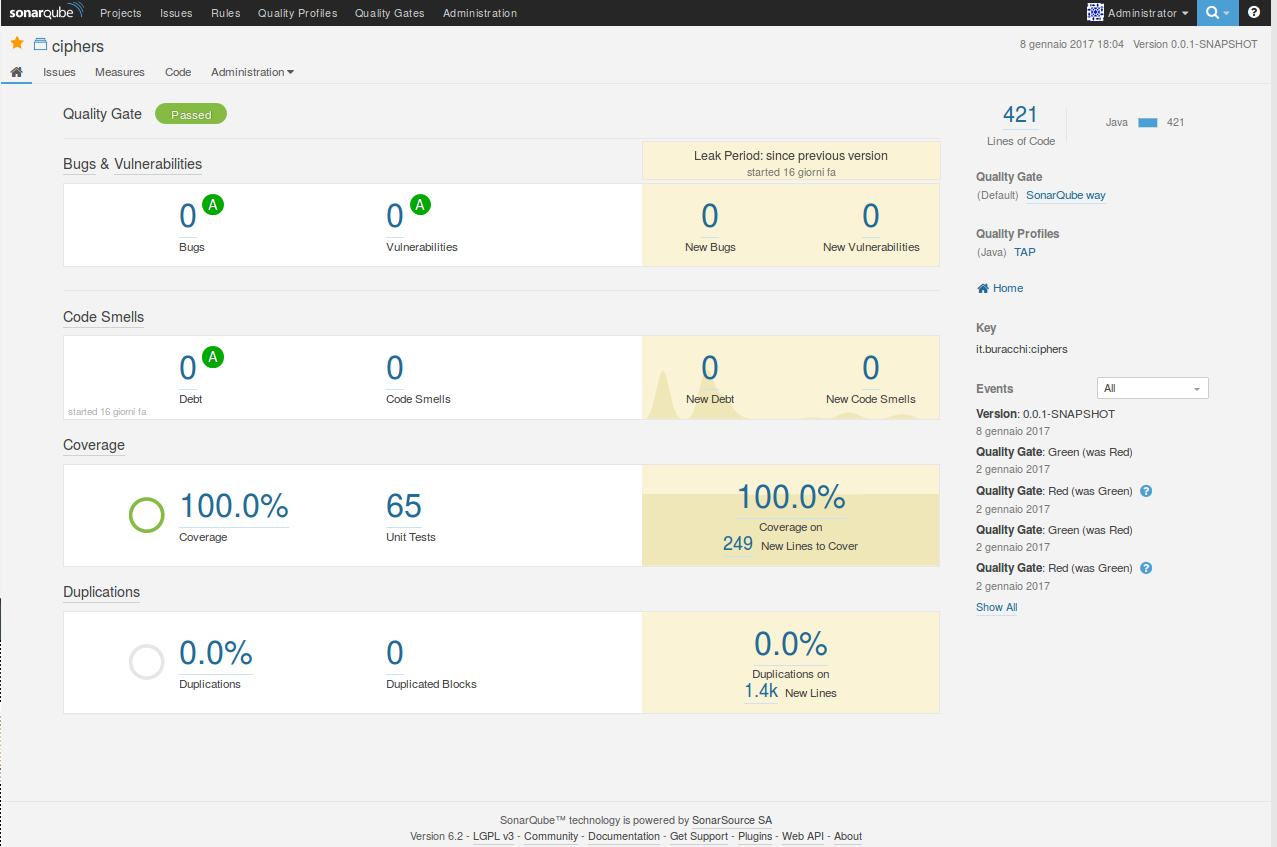
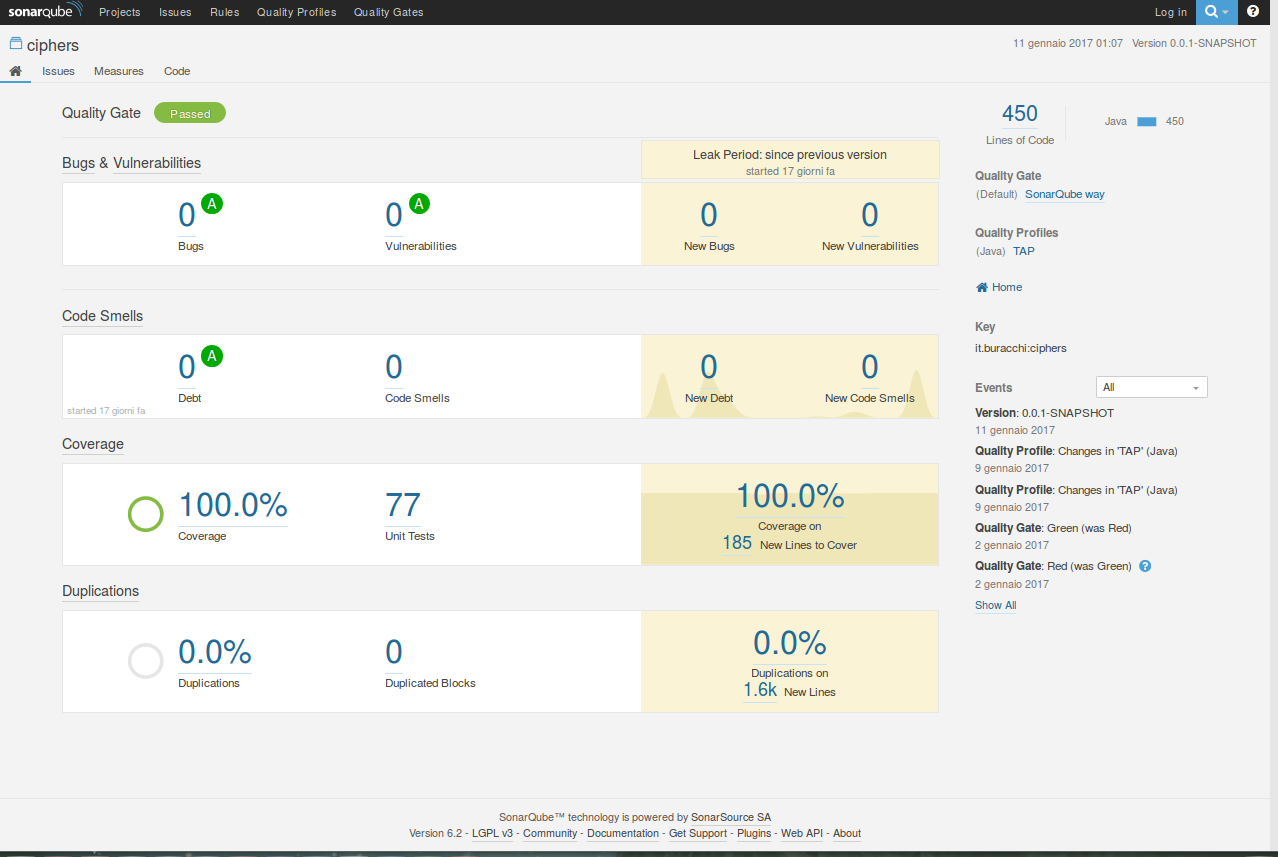
Correction after refactoring

diff --git a/Relazione/chapters/testing.tex b/Relazione/chapters/testing.tex
@@ -1,12 +1,12 @@
 \chapter{Testing}
 
 	\section{Unit testing}
-		Per tutti i test viene supposto che le stringhe da cifrare siano state processate dal parser e quindi che contengano solamente caratteri effettivamente cifrabili. Per eliminare tale dipendenza da classi concrete, nei vari unit-test un'istanza del parser viene simulata tramite \emph{mocking} e \emph{stubbing} dei metodi. Tale metodo verrà approfondito più avanti.
+		Per tutti i test viene supposto che le stringhe da cifrare siano state processate dal parser e quindi che contengano solamente caratteri effettivamente cifrabili. Per eliminare la dipendenza da classi concrete, nei vari unit-test, un'istanza del parser e, dove necessario, una del mapper viene simulata tramite \emph{mocking} e \emph{stubbing} dei metodi. Tale metodo verrà approfondito più avanti.
 		
 		Andiamo a vedere nel dettaglio i test con i quali sono state implementate le varie classi.
 		
 		\subsection{Shift cipher}
-			Lo \emph{shift cipher} è il cifrario più semplice. L'unica cosa che fa è spostare la lettere da cifrare di un certo numero di posizioni avanti nell'alfabeto. Tale numero di posizioni è la chiave del cifrario. Per decifrare il messaggio basterà semplicemente tornare indietro del numero di posizioni indicato dalla chiave. Se per esempio il messaggio è \emph{ciao} e la chiave è 3, il messaggio cifrato sarà \emph{fldr}.
+			Lo \emph{shift cipher} è il cifrario più semplice. L'unica cosa che fa è spostare la lettere da cifrare di un certo numero di posizioni avanti (o indietro) nell'alfabeto. Tale numero di posizioni è la chiave del cifrario. Per decifrare il messaggio basterà semplicemente tornare indietro (o avanti) del numero di posizioni indicato dalla chiave. Se per esempio il messaggio è \emph{ciao} e la chiave è 3, il messaggio cifrato sarà \emph{fldr}.
 			
 			Le uniche due funzionalità richieste a questo cifrario sono quelle di cifratura e decifratura. Tali funzionalità sono state testate nel caso di uno spostamento di zero posizioni (non ottenendo una cifratura), di una posizione, di ventisei posizioni, di ventisette posizioni e di un numero negativo di posizioni(-1). Come caso limite è stata testata anche la cifratura della stringa vuota (il numero di posizioni è ininfluente dato che la cifratura terminerà immediatamente).
 			
@@ -17,7 +17,7 @@
 			
 			I comportamenti da testare sono la cifratura, la decifratura e la giusta scelta del  parametro \emph{a} che deve essere coprimo con 26.
 			
-			Questo ultimo comportamento viene testato dando in input 2 come coefficiente \emph{a} e aspettandosi una IllegalArgumentException.
+			Questo ultimo comportamento viene testato dando in input 2 (non coprimo con 26) come coefficiente \emph{a} e aspettandosi una IllegalArgumentException.
 			
 			La cifratura e la decifratura vengono testate con stringhe di lunghezza variabile per cercare di coprire il maggior numero di combinazioni possibili.
 			

diff --git a/Relazione/chapters/cenni-preliminari.tex b/Relazione/chapters/cenni-preliminari.tex
@@ -13,10 +13,10 @@
 	\section{Struttura progetto}
 		Le cinque classi principali che implementano i cinque cifrari sono \emph{Shift, Vigenere, Substitution, Affine} e \emph{OneTimePad}.
 		
-		L'interfaccia \emph{Parser} definisce i metodi che deve implementare la classe che si occuperà di gestire le stringhe rappresentanti i messaggi, le chiavi e quant'altro all'interno del progetto.
+		L'interfaccia \emph{Parser} definisce i metodi che deve implementare la classe che si occuperà di gestire le stringhe rappresentanti i messaggi, le chiavi e quant'altro all'interno del progetto. Viene implementata dalla classe \emph{InputManager}.
 		
-		La classe \emph{InputManager} fornisce un'implementazione di tale interfaccia mentre la classe \emph{Constants} contiene delle variabili condivise.
+		L'interfaccia \emph{Mapper} definisce i metodi che deve implementare la classe che si occuperà di gestire le associazioni tra l'alfabeto e la sua cifratura. Viene implementata dalla classe \emph{BiMapper}.
 		
-		Infine la classe \emph{Main} contiene un piccolo main utile a spiegare le varie funzionalità del programma.
+		La classe \emph{Constants} contiene delle costanti statiche condivise dalle varie parti del programma e infine la classe \emph{Main} contiene un piccolo main che si limita ad illustrare le varie funzionalità del programma.
 		
-		Per quanto riguarda i test, sono presenti sei classi di unit-testing (una per ogni cifrario e una per l'\emph{InputManager}) e cinque classi di integration-testing per controllare l'effettivo funzionamento dell'interazione tra ognuna delle cinque classi che implementano i cifrari e il parser \emph{InputManager}.
+		Per quanto riguarda i test, sono presenti sette classi di unit-testing (una per ogni cifrario, una per la classe \emph{InputManager} e una per la classe \emph{BiMapper}) e cinque classi di integration-testing per controllare l'effettivo funzionamento dell'interazione tra ognuna delle cinque classi che implementano i cifrari, il parser \emph{InputManager} e il mapper \emph{BiMapper}.

diff --git a/Relazione/chapters/strumenti.tex b/Relazione/chapters/strumenti.tex
@@ -2,12 +2,10 @@
 
 	\section{Maven}
 		Maven è stato utilizzato per gestire le varie dipendenze del progetto e la build automatica.
-		Le dipendenze necessarie sono: 
+		Le dipendenze necessarie al programma e quindi inserite nel fatJar sono: 
 		\begin{itemize}
-			\item \emph{JUnit}: framework per lo unit-testing
 			\item \emph{Guava}: libreria di GOOGLE che fornisce un hashmap bidirezionale
-			\item \emph{Mockito}: framework utlizzato sempre per lo unit-testing
-			\item \emph{Log4J}: framework per il logging 
+			\item \emph{Log4J}: framework per il logging (non realmente necessario ma utilizzato dal Main per stampare messaggi a schermo)
 		\end{itemize}
 		
 	\section{Travis}
@@ -40,7 +38,13 @@
 			\label{fig:sonarules}
 		\end{figure}
 		
-		Sono state escluse le regole deprecate, quelle riguardanti JavaDoc che non viene utilizzato in quanto questo progetto è pensato per un utilizzo personale e non per essere divulgato, quelle che contestano l'assenza delle informazioni di copyright e di licenza per lo stesso motivo e alcune regole ambigue di formattazione. Una di queste ad esempio è quella di mettere la parentesi graffa aperta di inizio blocco in una nuova linea che contrasta con quella che suggerisce di metterla sulla stessa riga.
+		Sono state escluse 
+		\begin{itemize}
+			\item le regole deprecate
+			\item le regole riguardanti JavaDoc che non viene utilizzato in quanto questo progetto è pensato per un utilizzo personale e non per essere divulgato
+			\item le regole che contestano l'assenza delle informazioni di copyright e di licenza (come sopra)
+			\item alcune regole ambigue di formattazione come ad esempio quella che impone di mettere la parentesi graffa aperta di inizio blocco in una nuova linea che contrasta con quella che suggerisce di metterla sulla stessa riga (e con la formattazione di \emph{Eclipse})
+		\end{itemize}
 		
 		Il risultato della scansione utilizzando questi parametri è illustrato in figura \ref{fig:sonaresult}
 		
